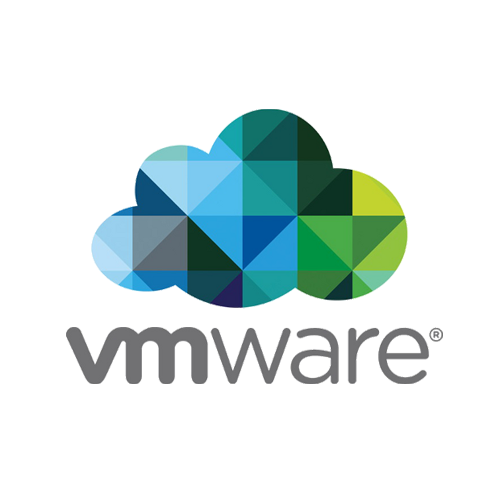
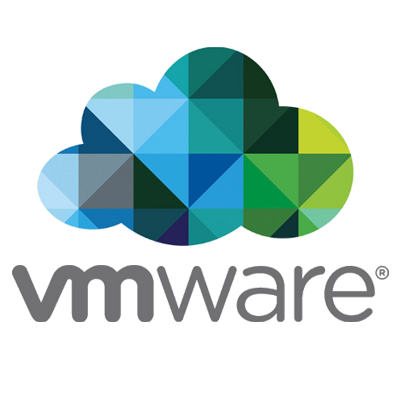
update 'about'

Changed region(s): [[0.09, 0.12, 0.9, 0.63], [0.03, 0.63, 0.99, 0.81]]

diff --git a/_pages/about.md b/_pages/about.md
@@ -32,7 +32,7 @@ GPA: 3.92/4.00, ranking 1/97, Electronic Information Engineering, Candidate for 
 Member of the Excellent Engineering Program<br>
 
 # Experience
-* <img width="100" height="100" src="https://jiahaoplus.github.io/images/vmware.png"/> <br>
+* <img width="75" height="75" src="https://jiahaoplus.github.io/images/vmware.png"/> <br>
 <b>VMware (Beijing, China) </b> <br>
 Software Engineering Intern, Advisor: Kevin Song (Sep. 2018--Present)<br>
 (1) Olfactory Bulb Volume Calculation Using MRI Scans<br>
